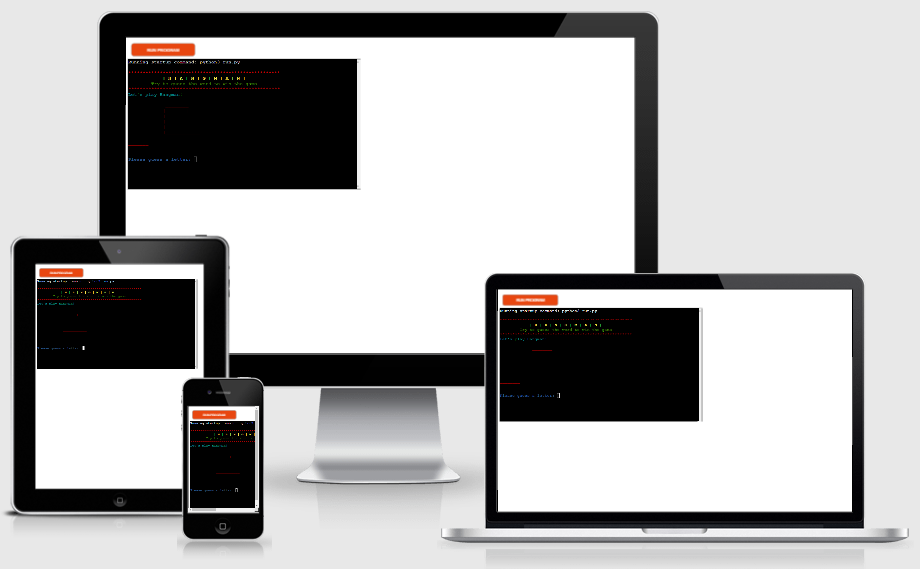
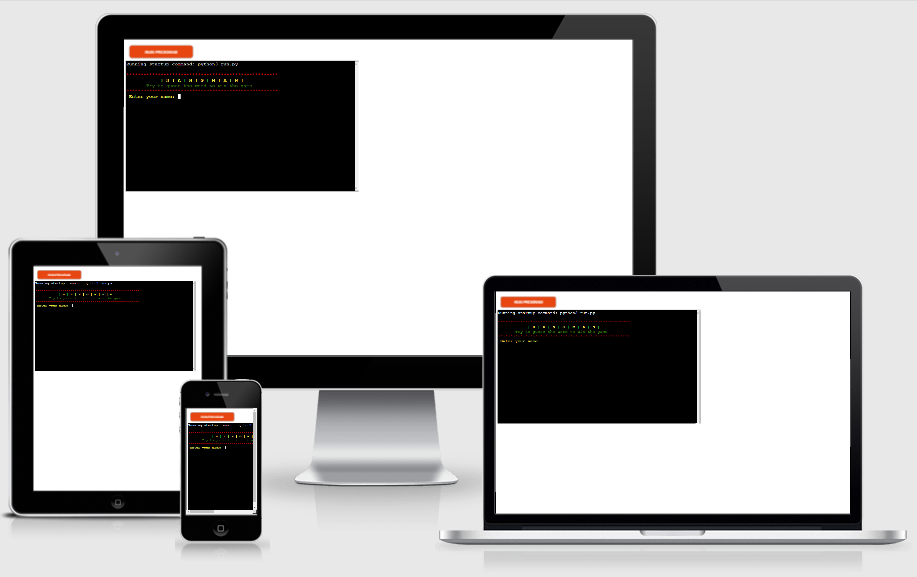
Fix replay section bug

diff --git a/run.py b/run.py
@@ -1,6 +1,6 @@
 import random
 
-word_list = [
+WORD_LIST = [
     'alarming',
     'engineer',
     'collect',
@@ -52,7 +52,7 @@ def get_word():
     """
     Get a random word from the list of words
     """
-    word = random.choice(word_list)
+    word = random.choice(WORD_LIST)
     return word.upper()
 
 
@@ -60,7 +60,7 @@ def display_hangman(tries):
     """
     Hangman images to show after every failed guess
     """
-    stages = [
+    STAGES = [
         """\033[0;31m
              ________
             |       |
@@ -118,10 +118,10 @@ def display_hangman(tries):
             |____________
             """
     ]
-    return stages[tries]
+    return STAGES[tries]
 
 
-def play(word):
+def play_game(word):
     """
     Play function
     Loop to keep going until either the word is guessed
@@ -177,10 +177,13 @@ def main():
     """
     welcome_user()
     word = get_word()
-    play(word)
-    while input("\033[0;34mPlay Again? (Y/N) ").upper() == "Y":
+    play_game(word)
+    while input("\033[0;34mPlay Again? (Y/N): ").upper() == "Y":
         word = get_word()
-        play(word)
+        play_game(word)
+    else:
+        print('Thank you for taking time to play Hangman.')
+
 
 
 if __name__ == "__main__":

diff --git a/README.md b/README.md
@@ -254,8 +254,7 @@ I used Gitpod IDE to code my project.
 ### Bugs
 #### Bugs Fixed
 
-Game was only showing the image to let user know the progress.
-Added a message with number of attempts remaining.
+Game was only showing the image to let user know the progress, which could be hard for some user to understand how many attempts were remaing. So added a message with number of attempts remaining.
 
 
 
